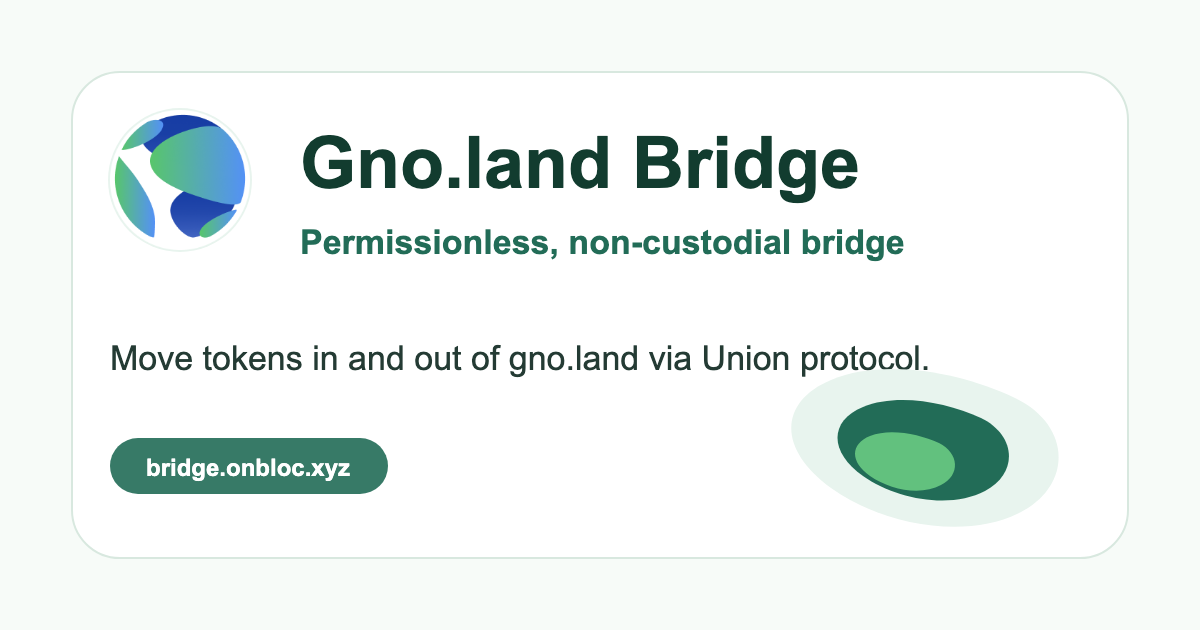
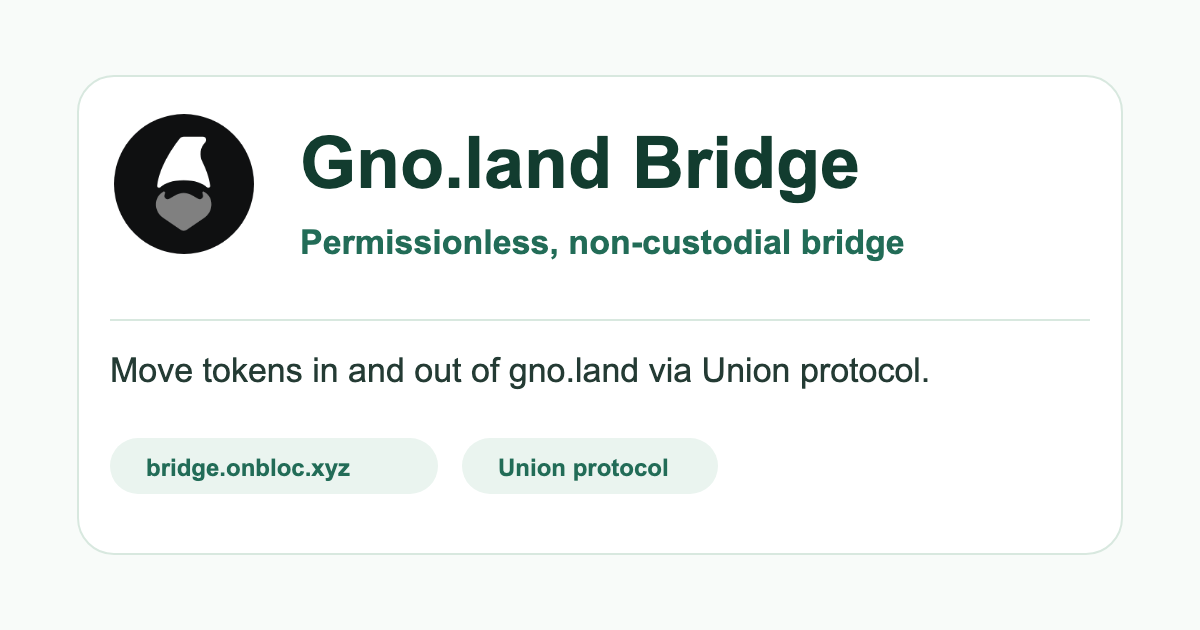
Replace Terra-like preview assets

diff --git a/index.html b/index.html
@@ -14,8 +14,8 @@
       property="og:description"
       content="Gno.land Bridge - permissionless, non-custodial bridge for moving tokens in and out of gno.land via Union protocol."
     />
-    <meta property="og:image" content="https://bridge.onbloc.xyz/og-gno-bridge.png" />
-    <meta property="og:image:secure_url" content="https://bridge.onbloc.xyz/og-gno-bridge.png" />
+    <meta property="og:image" content="https://bridge.onbloc.xyz/og-gno-bridge-v2.png" />
+    <meta property="og:image:secure_url" content="https://bridge.onbloc.xyz/og-gno-bridge-v2.png" />
     <meta property="og:image:width" content="1200" />
     <meta property="og:image:height" content="630" />
     <meta property="og:image:alt" content="Gno.land Bridge" />
@@ -28,7 +28,7 @@
       name="twitter:description"
       content="Gno.land Bridge - permissionless, non-custodial bridge for moving tokens in and out of gno.land via Union protocol."
     />
-    <meta name="twitter:image" content="https://bridge.onbloc.xyz/og-gno-bridge.png" />
+    <meta name="twitter:image" content="https://bridge.onbloc.xyz/og-gno-bridge-v2.png" />
     <meta name="twitter:image:alt" content="Gno.land Bridge" />
     <link rel="apple-touch-icon" href="/logo_196.png" />
     <title>Gno.land Bridge</title>